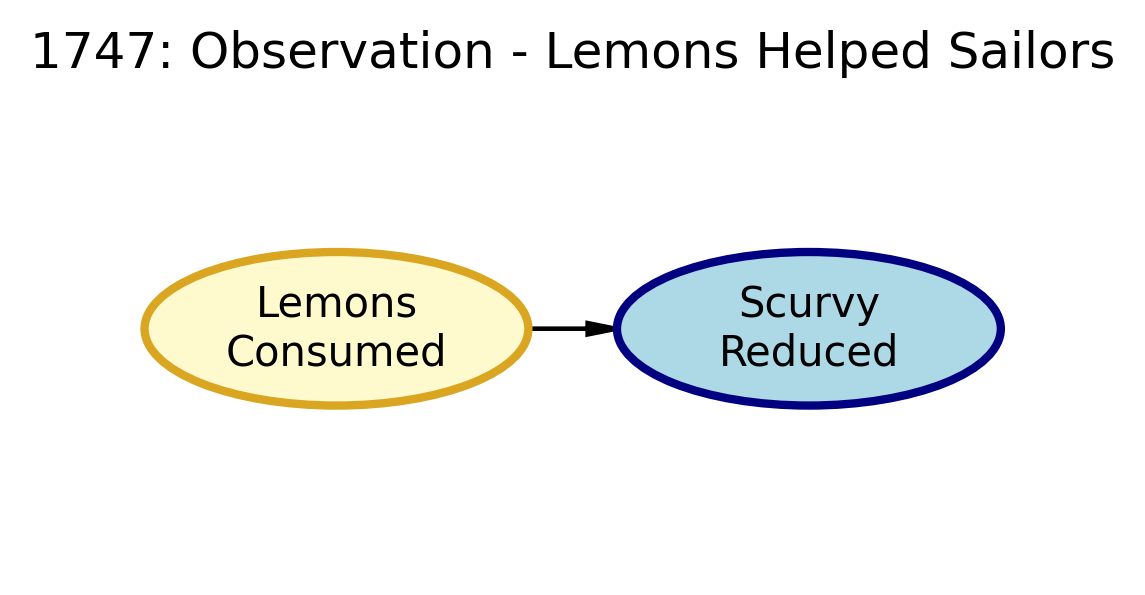
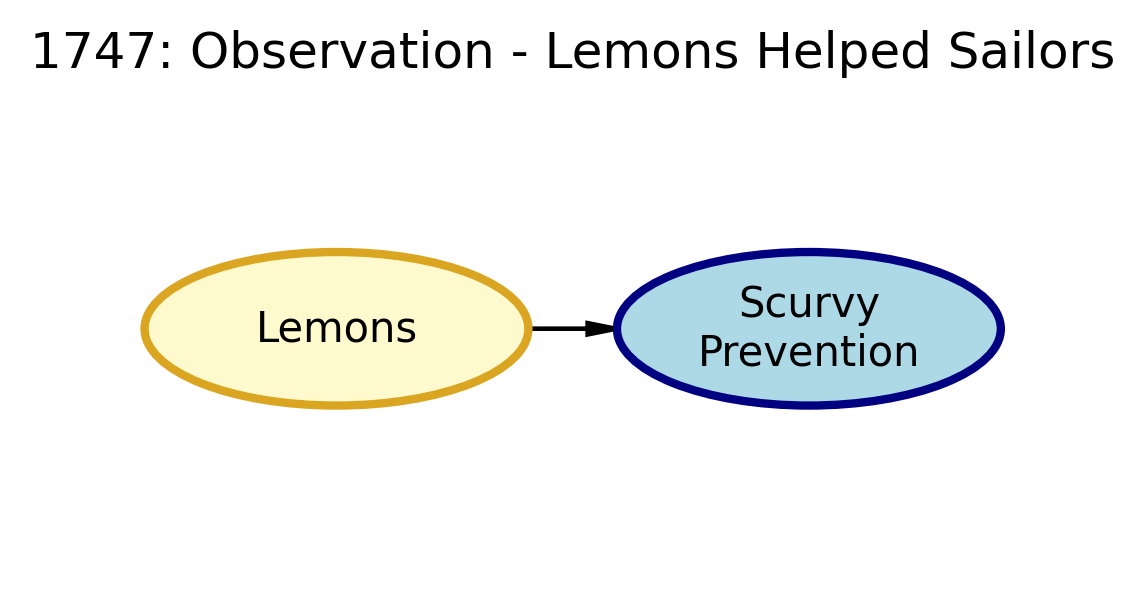
Final changes

Changed region(s): [[0.1834, 0.484, 0.3974, 0.6353], [0.6114, 0.5445, 0.8253, 0.6353]]

diff --git a/index.html b/index.html
@@ -7,7 +7,7 @@
 <meta name="viewport" content="width=device-width, initial-scale=1.0, user-scalable=yes">
 
 
-<title>DAFT Package Challenge: Understanding Scurvy</title>
+<title>DAFT Package Challenge: Recreating Scurvy DAGs</title>
 <style>
 code{white-space: pre-wrap;}
 span.smallcaps{font-variant: small-caps;}
@@ -47,7 +47,7 @@ ul.task-list li input[type="checkbox"] {
 
 <header id="title-block-header" class="quarto-title-block default">
 <div class="quarto-title">
-<h1 class="title">DAFT Package Challenge: Understanding Scurvy</h1>
+<h1 class="title">DAFT Package Challenge: Recreating Scurvy DAGs</h1>
 </div>
 
 
@@ -64,17 +64,19 @@ ul.task-list li input[type="checkbox"] {
 </header>
 
 
-<section id="daft-package-challenge" class="level1">
-<h1>DAFT Package Challenge</h1>
-<section id="the-story-of-scurvy" class="level2">
-<h2 class="anchored" data-anchor-id="the-story-of-scurvy">The Story of Scurvy</h2>
-<p>For centuries, sailors suffered from scurvy on long voyages. In 1747, James Lind discovered that consuming lemons reduced the disease, though the mechanism remained unknown. Later, an incorrect acid theory misled people, until 1928 when Vitamin C deficiency was identified as the true cause. The following DAGs illustrate how our understanding evolved over time.</p>
+<section id="the-story-of-scurvy-a-data-science-tragedy" class="level2">
+<h2 class="anchored" data-anchor-id="the-story-of-scurvy-a-data-science-tragedy">The Story of Scurvy: A data science Tragedy</h2>
+<p>For centuries, sailors on long sea voyages suffered from scurvy, a disease that caused weakness, bleeding gums, and eventually death. The cause of scurvy was misunderstood for many years, even though the cure had already been discovered.</p>
+<p>In 1747, naval surgeon James Lind conducted one of the earliest controlled experiments and discovered that sailors who consumed lemons recovered from scurvy. However, the mechanism behind this effect remained unknown.</p>
+<p>Over time, people developed an incorrect explanation. They believed the acid in lemons killed bacteria, which was thought to cause scurvy. This misunderstanding led to replacing lemons with weaker acidic substances such as vinegar or limes, which contained much less Vitamin C.</p>
+<p>Finally, in 1928, scientists discovered that Vitamin C (ascorbic acid) was the real reason lemons prevented scurvy. This completed the understanding of the disease and resolved the confusion that had lasted for over a century.</p>
+<p>The following three Directed Acyclic Graphs (DAGs) illustrate how the understanding of scurvy evolved over time.</p>
 <hr>
 </section>
-<section id="dag-1-1747-observation-lemons-helped-sailors" class="level2">
-<h2 class="anchored" data-anchor-id="dag-1-1747-observation-lemons-helped-sailors">DAG 1: 1747 Observation – Lemons Helped Sailors</h2>
-<p>This DAG represents the earliest understanding: lemons seemed to prevent scurvy, without knowing why.</p>
-<div id="b345e0b4" class="cell" data-execution_count="1">
+<section id="dag-1-1747-understanding" class="level2">
+<h2 class="anchored" data-anchor-id="dag-1-1747-understanding">DAG 1: 1747 Understanding</h2>
+<p>This DAG represents the 1747 understanding. Sailors observed that consuming lemons prevented scurvy, but they did not yet understand the biological mechanism responsible.</p>
+<div id="77829228" class="cell" data-execution_count="1">
 <div class="cell-output cell-output-display">
 <div>
 <figure class="figure">
@@ -83,9 +85,11 @@ ul.task-list li input[type="checkbox"] {
 </div>
 </div>
 </div>
-<p>DAG 2: Misguided Belief – Acid Theory</p>
-<p>Scientists later assumed that the acid in citrus killed bacteria, mistakenly explaining scurvy prevention.</p>
-<div id="ca0f0795" class="cell" data-execution_count="2">
+</section>
+<section id="dag-2-misguided-belief" class="level2">
+<h2 class="anchored" data-anchor-id="dag-2-misguided-belief">DAG 2: Misguided Belief</h2>
+<p>This DAG illustrates the incorrect theory that acid in lemons killed bacteria, which supposedly prevented scurvy. This misunderstanding caused the real cure to be overlooked for many years.</p>
+<div id="04a533fd" class="cell" data-execution_count="2">
 <div class="cell-output cell-output-display">
 <div>
 <figure class="figure">
@@ -94,9 +98,11 @@ ul.task-list li input[type="checkbox"] {
 </div>
 </div>
 </div>
-<p>DAG 3: 1928 Discovery – Vitamin C Prevents Scurvy</p>
-<p>The complete explanation revealed Vitamin C deficiency as the true cause of scurvy, correcting earlier misunderstandings</p>
-<div id="c9c04f9c" class="cell" data-execution_count="3">
+</section>
+<section id="dag-3-1928-understanding" class="level2">
+<h2 class="anchored" data-anchor-id="dag-3-1928-understanding">DAG 3: 1928 Understanding</h2>
+<p>This DAG represents the correct modern understanding. Vitamin C deficiency causes scurvy, and consuming foods rich in Vitamin C (such as lemons) prevents the disease.</p>
+<div id="4c28afc7" class="cell" data-execution_count="3">
 <div class="cell-output cell-output-display">
 <div>
 <figure class="figure">
@@ -105,7 +111,7 @@ ul.task-list li input[type="checkbox"] {
 </div>
 </div>
 </div>
-</section>
+<p>1928 Discovery – Vitamin C Prevents Scurvy.</p>
 </section>
 
 </main>
